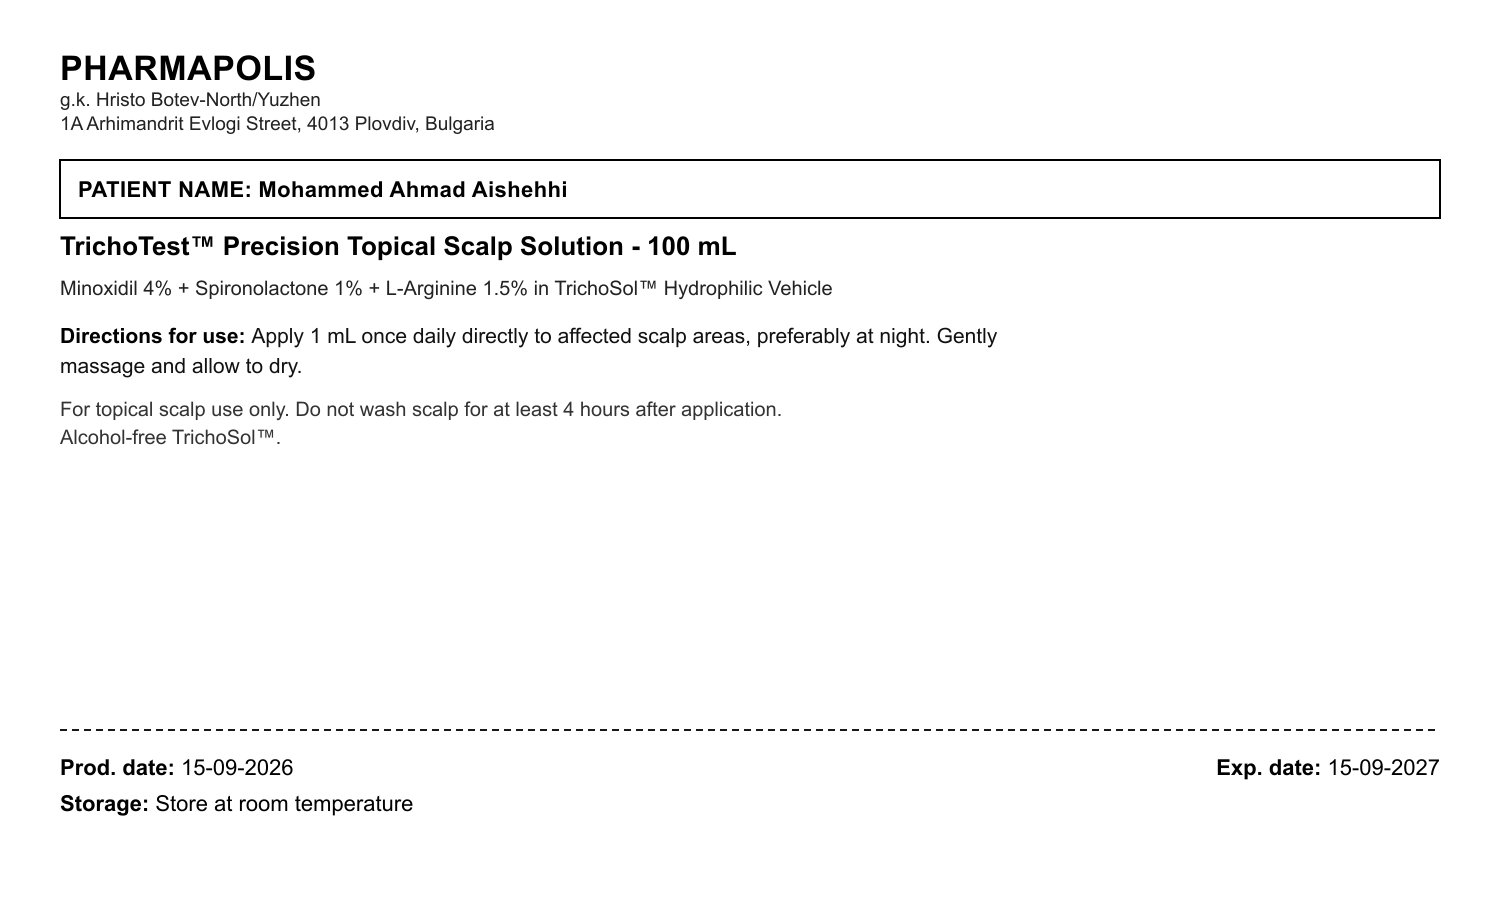
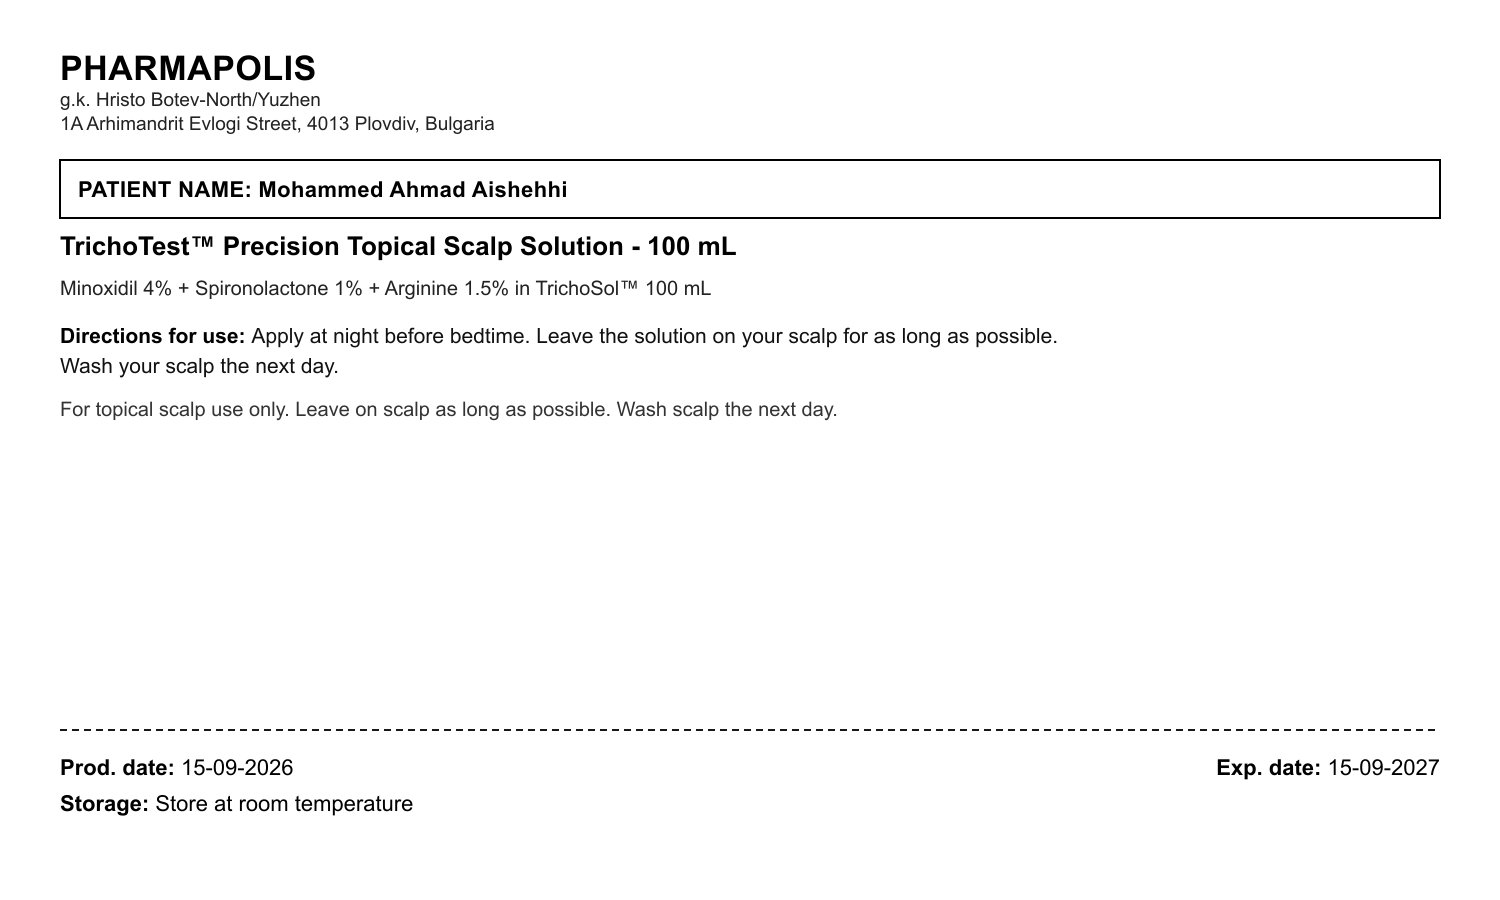
chore(auto-deploy): automated release 8/10/2026, 10:40:16

Changed region(s): [[0.0307, 0.3111, 0.7053, 0.4667], [0.0307, 0.4667, 0.184, 0.4978]]

diff --git a/src/data/pharmapolisLabelsMap.js b/src/data/pharmapolisLabelsMap.js
@@ -359,9 +359,9 @@ export const PHARMAPOLIS_LABELS_REGISTRY = [
     volume: '100 mL',
     dimensions: '7.5 × 4.5 cm (1500 × 900 px)',
     pharmacy: 'Pharmapolis Compounding Pharmacy',
-    formula: 'Minoxidil 4% + Spironolactone 1% + L-Arginine 1.5% in TrichoSol™ Hydrophilic Vehicle',
-    directions: 'Apply 1 mL once daily directly to affected scalp areas, preferably at night. Gently massage and allow to dry.',
-    warnings: 'For topical scalp use only. Do not wash scalp for at least 4 hours after application. Alcohol-free TrichoSol™.',
+    formula: 'Minoxidil 4% + Spironolactone 1% + Arginine 1.5% in TrichoSol™ 100 mL',
+    directions: 'Apply at night before bedtime. Leave the solution on your scalp for as long as possible. Wash your scalp the next day.',
+    warnings: 'For topical scalp use only. Leave on scalp as long as possible. Wash scalp the next day.',
     prodDate: '15-09-2026',
     expDate: '15-09-2027',
     storage: 'Store at room temperature',
